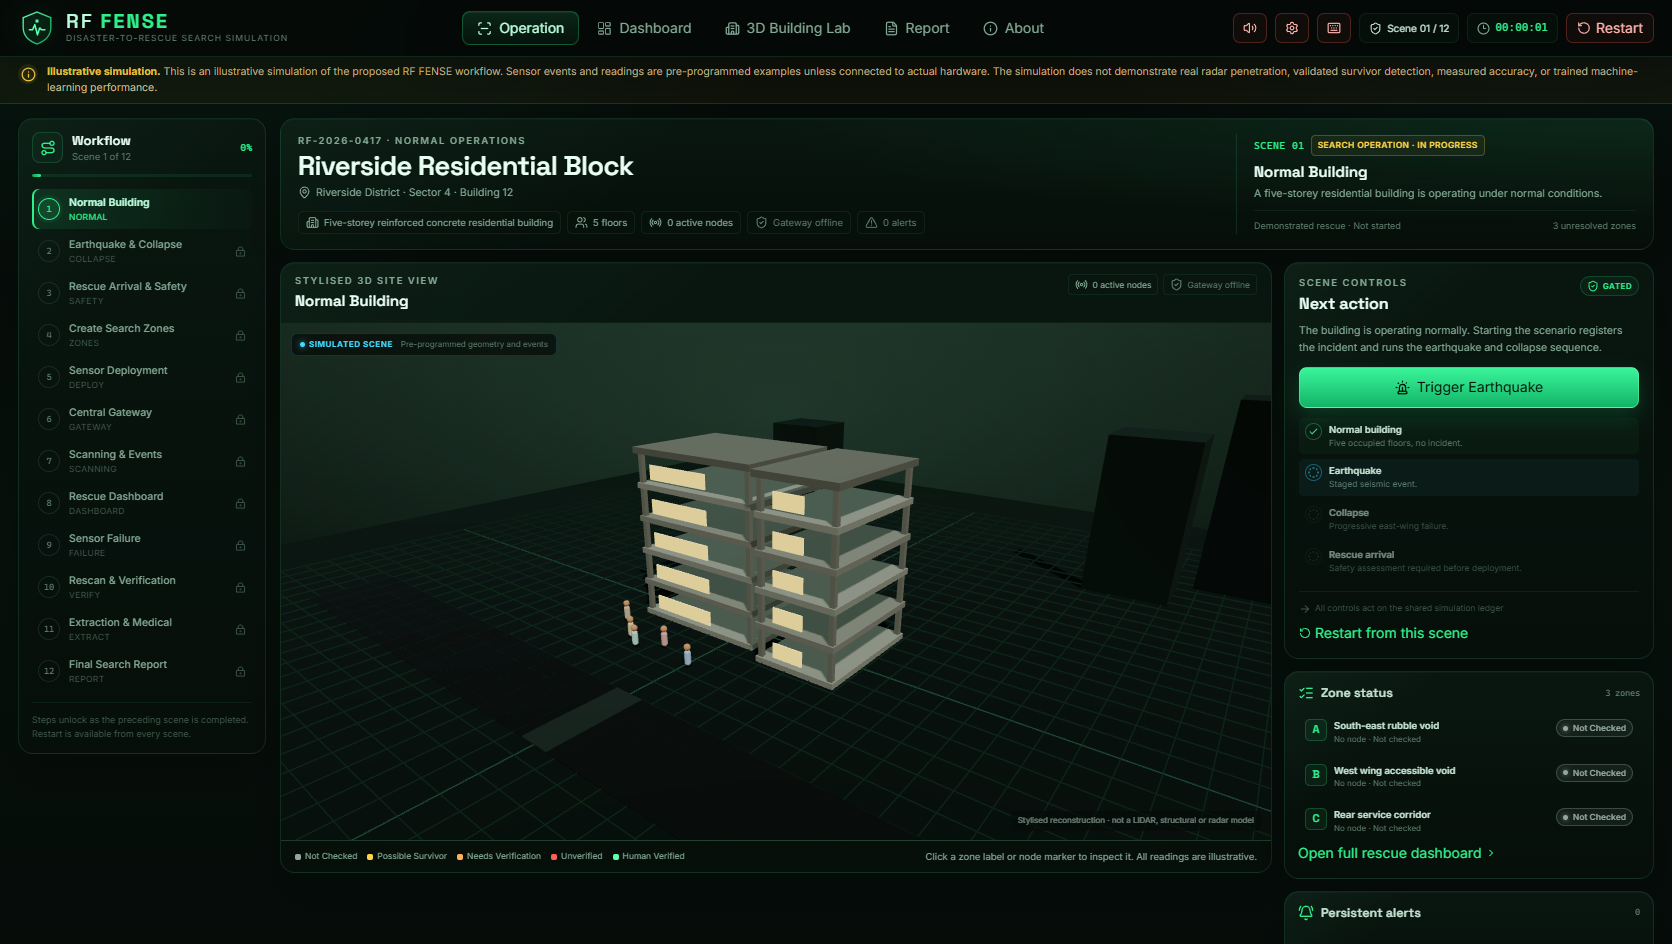
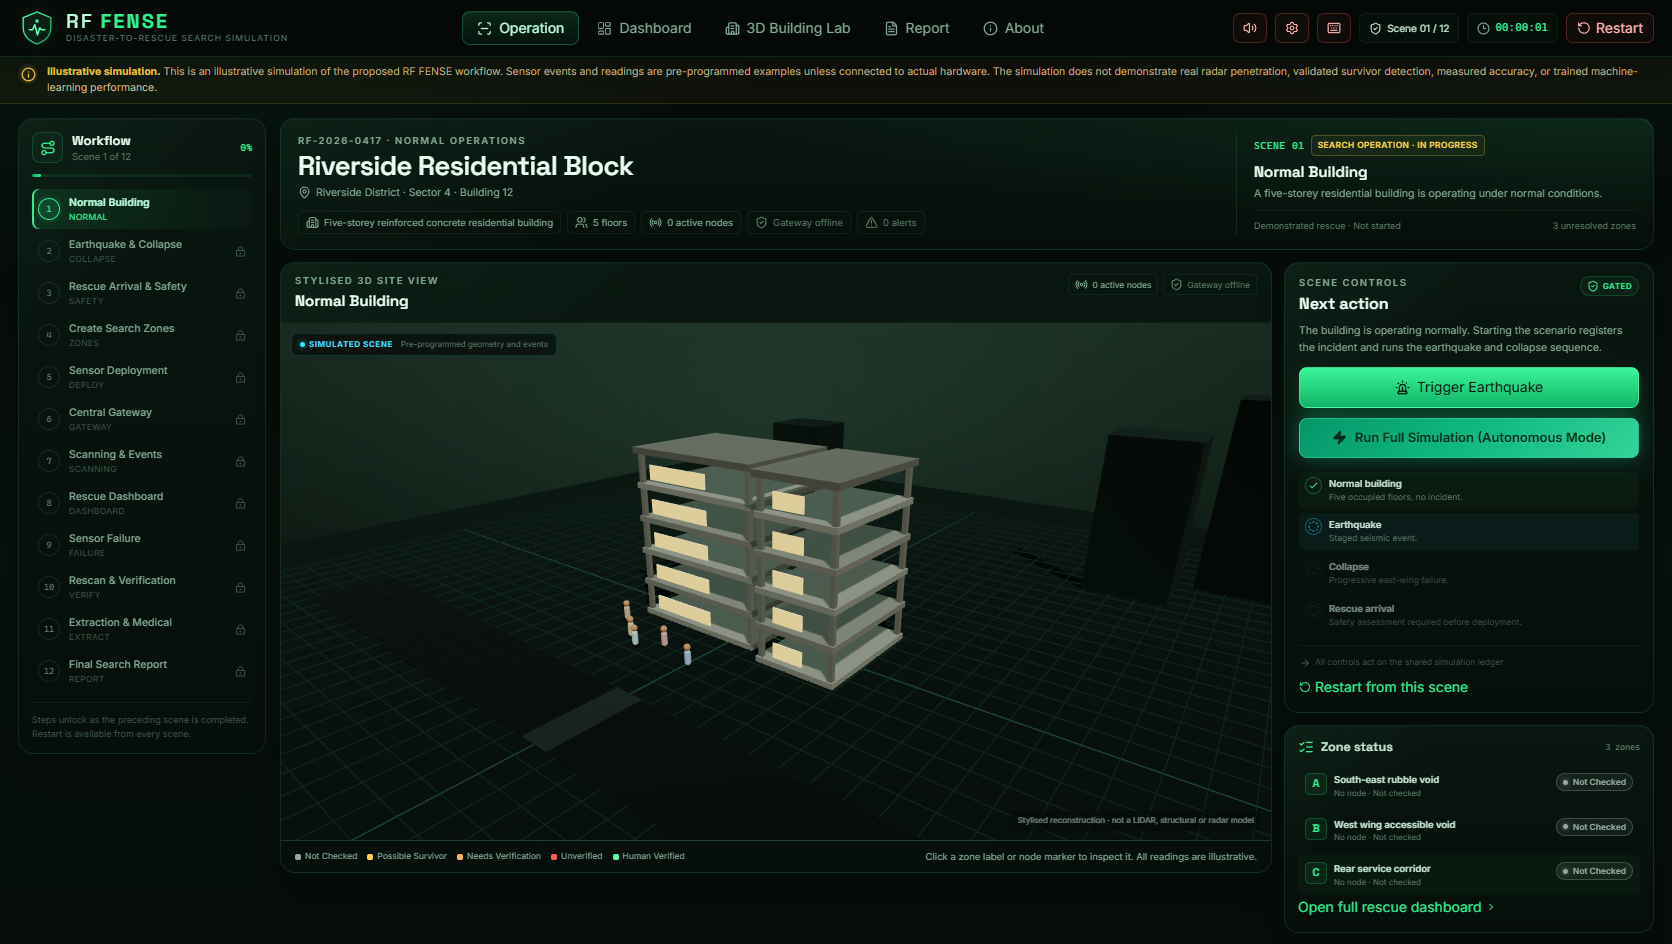
feat: remove workflow sidebar from 3D Building Lab for full-width layout and add one-click autonomous E2E run button

Changed region(s): [[0.7775, 0.4301, 0.9952, 0.9831], [0.933, 0.768, 0.9952, 0.9523]]

diff --git a/src/rf/RfFenseContext.tsx b/src/rf/RfFenseContext.tsx
@@ -77,6 +77,9 @@ interface RfFenseContextValue {
   completeExtraction: () => void
   generateReport: () => void
   restartSimulation: () => void
+  isAutoRunning: boolean
+  runAutonomousSimulation: () => void
+  stopAutonomousSimulation: () => void
   now: () => number
 }
 
@@ -100,6 +103,10 @@ export function RfFenseProvider({ children }: { children: ReactNode }) {
   const generationRef = useRef(0)
   const toastIdRef = useRef(0)
 
+  const [isAutoRunning, setIsAutoRunning] = useState(false)
+  const autoRunningRef = useRef(false)
+  const autoRunTimersRef = useRef<number[]>([])
+
   const scene = deriveScene(state)
   const phase = derivePhase(state)
   const report = useMemo(() => getReport(state), [state])
@@ -116,6 +123,9 @@ export function RfFenseProvider({ children }: { children: ReactNode }) {
       generationRef.current += 1
       timersRef.current.forEach((timer) => window.clearTimeout(timer))
       timersRef.current.clear()
+      autoRunningRef.current = false
+      autoRunTimersRef.current.forEach((timer) => window.clearTimeout(timer))
+      autoRunTimersRef.current = []
     }
   }, [])
 
@@ -383,6 +393,10 @@ export function RfFenseProvider({ children }: { children: ReactNode }) {
 
   const restartSimulation = useCallback(() => {
     tacticalAudio.playClick()
+    autoRunningRef.current = false
+    setIsAutoRunning(false)
+    autoRunTimersRef.current.forEach((t) => window.clearTimeout(t))
+    autoRunTimersRef.current = []
     generationRef.current += 1
     timersRef.current.forEach((timer) => window.clearTimeout(timer))
     timersRef.current.clear()
@@ -397,6 +411,113 @@ export function RfFenseProvider({ children }: { children: ReactNode }) {
     dispatch({ type: 'RESTART', now: now() })
     pushToast('Simulation restarted', 'Scene 1 · Normal Building. All previous events and readings have been cleared.', 'info')
   }, [now, pushToast])
+
+  const stopAutonomousSimulation = useCallback(() => {
+    autoRunningRef.current = false
+    setIsAutoRunning(false)
+    autoRunTimersRef.current.forEach((t) => window.clearTimeout(t))
+    autoRunTimersRef.current = []
+    pushToast('Autonomous run stopped', 'Manual control restored. You can continue from the current scene.', 'info')
+  }, [pushToast])
+
+  const runAutonomousSimulation = useCallback(() => {
+    if (lockRef.current) return
+    autoRunTimersRef.current.forEach((t) => window.clearTimeout(t))
+    autoRunTimersRef.current = []
+
+    autoRunningRef.current = true
+    setIsAutoRunning(true)
+    pushToast('Autonomous Mode Activated', 'Running end-to-end disaster-to-rescue simulation across all 12 scenes...', 'success')
+
+    const scheduleStep = (fn: () => void, delay: number) => {
+      const t = window.setTimeout(() => {
+        if (!autoRunningRef.current) return
+        fn()
+      }, delay)
+      autoRunTimersRef.current.push(t)
+    }
+
+    // Step 1: Earthquake
+    triggerEarthquake()
+
+    // Step 2: Safety Assessment (~4800ms)
+    scheduleStep(() => {
+      runSafetyAssessment()
+    }, 4800)
+
+    // Step 3: Mark Safe Areas (~7200ms)
+    scheduleStep(() => {
+      markSafeAreas()
+    }, 7200)
+
+    // Step 4: Confirm Search Zones (~8700ms)
+    scheduleStep(() => {
+      confirmZones()
+    }, 8700)
+
+    // Step 5: Deploy Sensor Nodes (~10000ms)
+    scheduleStep(() => {
+      deploySensors()
+    }, 10000)
+
+    // Step 6: Connect Central Gateway (~12100ms)
+    scheduleStep(() => {
+      connectGateway()
+    }, 12100)
+
+    // Step 7: Start Initial Scan (~14300ms)
+    scheduleStep(() => {
+      startScan()
+    }, 14300)
+
+    // Step 8: Simulate Sensor Failure (~19500ms)
+    scheduleStep(() => {
+      simulateSensorFailure()
+    }, 19500)
+
+    // Step 9: Reassess Coverage Options (~21200ms)
+    scheduleStep(() => {
+      reassessCoverage()
+    }, 21200)
+
+    // Step 10: Rescan Zone A (~23100ms)
+    scheduleStep(() => {
+      rescanZone('A')
+    }, 23100)
+
+    // Step 11: Human Verification with explicit commander signature (~25200ms)
+    scheduleStep(() => {
+      confirmVerification('Visual and Acoustic Search Team', 'Captain M. Okafor (Rescue Commander)')
+    }, 25200)
+
+    // Step 12: Complete Extraction & Medical Handover (~27200ms)
+    scheduleStep(() => {
+      completeExtraction()
+    }, 27200)
+
+    // Step 13: Generate Final Search Report (~29500ms)
+    scheduleStep(() => {
+      generateReport()
+      autoRunningRef.current = false
+      setIsAutoRunning(false)
+      pushToast('Autonomous Simulation Complete', 'All 12 disaster-to-rescue scenes successfully executed. Final report generated.', 'success')
+    }, 29500)
+  }, [
+    triggerEarthquake,
+    runSafetyAssessment,
+    markSafeAreas,
+    confirmZones,
+    deploySensors,
+    connectGateway,
+    startScan,
+    simulateSensorFailure,
+    reassessCoverage,
+    rescanZone,
+    confirmVerification,
+    completeExtraction,
+    generateReport,
+    pushToast,
+  ])
 
   const selectZone = useCallback((zoneId: ZoneId | null) => {
     setSelectedZone(zoneId)
@@ -446,6 +567,9 @@ export function RfFenseProvider({ children }: { children: ReactNode }) {
       completeExtraction,
       generateReport,
       restartSimulation,
+      isAutoRunning,
+      runAutonomousSimulation,
+      stopAutonomousSimulation,
       now,
     }),
     [
@@ -483,6 +607,9 @@ export function RfFenseProvider({ children }: { children: ReactNode }) {
       completeExtraction,
       generateReport,
       restartSimulation,
+      isAutoRunning,
+      runAutonomousSimulation,
+      stopAutonomousSimulation,
       now,
     ],
   )

diff --git a/src/rf/components/ActionPanel.tsx b/src/rf/components/ActionPanel.tsx
@@ -17,6 +17,7 @@ import {
   Siren,
   Stethoscope,
   Wrench,
+  Zap,
 } from 'lucide-react'
 import type { ReactNode } from 'react'
 import { useRfFense } from '../RfFenseContext'
@@ -126,6 +127,9 @@ export function ActionPanel() {
     generateReport,
     setTab,
     restartSimulation,
+    isAutoRunning,
+    runAutonomousSimulation,
+    stopAutonomousSimulation,
   } = useRfFense()
 
   const busyReason = busy ? `${busy.label}. Please wait for this step to finish.` : undefined
@@ -158,10 +162,43 @@ export function ActionPanel() {
         </span>
       </div>
 
-      {busy && (
+      {busy && !isAutoRunning && (
         <div className="rf-actions__busy" role="status" aria-live="polite">
           <LoaderCircle size={14} className="rf-spin" aria-hidden="true" />
           <span>{busy.label}</span>
+        </div>
+      )}
+
+      {isAutoRunning && (
+        <div
+          style={{
+            padding: '10px 14px',
+            marginBottom: '14px',
+            borderRadius: '8px',
+            background: 'rgba(16, 185, 129, 0.14)',
+            border: '1px solid rgba(52, 211, 153, 0.5)',
+            display: 'flex',
+            alignItems: 'center',
+            justifyContent: 'space-between',
+            gap: '10px',
+          }}
+          role="status"
+          aria-live="polite"
+        >
+          <div style={{ display: 'flex', alignItems: 'center', gap: '8px' }}>
+            <LoaderCircle size={15} className="rf-spin" style={{ color: '#34d399', flexShrink: 0 }} />
+            <span style={{ fontSize: '12px', fontWeight: 600, color: '#ecfdf5' }}>
+              Autonomous Simulation in progress · Scene {scene} / 12
+            </span>
+          </div>
+          <button
+            type="button"
+            className="secondary-button"
+            onClick={stopAutonomousSimulation}
+            style={{ padding: '4px 9px', fontSize: '11px', fontWeight: 600, whiteSpace: 'nowrap' }}
+          >
+            Stop Auto-Run
+          </button>
         </div>
       )}
 
@@ -176,10 +213,39 @@ export function ActionPanel() {
             label="Trigger Earthquake"
             icon={<Siren size={15} />}
             onClick={triggerEarthquake}
-            disabled={Boolean(busy)}
+            disabled={Boolean(busy) || isAutoRunning}
             reason={busyReason}
             primary
           />
+          <div style={{ marginTop: '10px', marginBottom: '14px' }}>
+            <button
+              type="button"
+              className="primary-button"
+              data-control="run-autonomous-simulation"
+              onClick={runAutonomousSimulation}
+              disabled={Boolean(busy) || isAutoRunning}
+              title="One-click automated walkthrough of all 12 disaster-to-rescue scenes from earthquake to final report"
+              style={{
+                width: '100%',
+                padding: '11px 16px',
+                fontSize: '13px',
+                fontWeight: 600,
+                background: 'linear-gradient(135deg, #059669 0%, #10b981 50%, #34d399 100%)',
+                color: '#022c17',
+                border: '1px solid rgba(52, 211, 153, 0.6)',
+                borderRadius: '8px',
+                boxShadow: '0 0 20px rgba(16, 185, 129, 0.45)',
+                display: 'flex',
+                alignItems: 'center',
+                justifyContent: 'center',
+                gap: '8px',
+                cursor: 'pointer',
+              }}
+            >
+              <Zap size={15} fill="#022c17" />
+              <span>Run Full Simulation (Autonomous Mode)</span>
+            </button>
+          </div>
           <StepList
             steps={[
               { label: 'Normal building', detail: 'Five occupied floors, no incident.', done: true },

diff --git a/src/rf/RfApp.tsx b/src/rf/RfApp.tsx
@@ -49,19 +49,19 @@ export function RfApp() {
       />
       <DisclaimerBanner />
 
-      <div className="rf-shell">
-        <WorkflowRail />
-        <main id="rf-main" className="rf-main">
-          <MissionBanner />
+      <div className={`rf-shell${tab === 'building_lab' ? ' no-rail' : ''}`}>
+        {tab !== 'building_lab' && <WorkflowRail />}
+        <main id="rf-main" className={`rf-main${tab === 'building_lab' ? ' rf-main--full' : ''}`}>
+          {tab !== 'building_lab' && <MissionBanner />}
           <p className="rf-sr-only" role="status" aria-live="polite">
             Scene {scene} of 12: {meta.label}. {meta.objective}
           </p>
           {tab === 'operation' && <OperationView />}
           {tab === 'dashboard' && <DashboardView />}
           {tab === 'building_lab' && (
-            <div style={{ padding: '8px 12px' }}>
+            <div style={{ width: '100%' }}>
               <SimulationProvider>
-                <SimulationDashboard />
+                <SimulationDashboard showSidebar={false} />
               </SimulationProvider>
             </div>
           )}

diff --git a/src/components/SimulationDashboard.tsx b/src/components/SimulationDashboard.tsx
@@ -7,11 +7,15 @@ import { DetectionResults } from './DetectionResults'
 import { EstimatedLocation } from './EstimatedLocation'
 import { MissionStatus } from './MissionStatus'
 
-export function SimulationDashboard() {
+interface SimulationDashboardProps {
+  showSidebar?: boolean
+}
+
+export function SimulationDashboard({ showSidebar = false }: SimulationDashboardProps) {
   return (
-    <main id="main-content" className="app-main">
-      <div className="dashboard-grid">
-        <WorkflowSidebar />
+    <main id="main-content" className="app-main" style={{ padding: '0 4px 18px' }}>
+      <div className={`dashboard-grid${showSidebar ? '' : ' no-sidebar'}`}>
+        {showSidebar && <WorkflowSidebar />}
 
         <div className="center-column">
           <MissionHeader />

diff --git a/src/styles/rf.css b/src/styles/rf.css
@@ -295,11 +295,19 @@
   padding: 14px 18px 20px;
 }
 
+.rf-shell.no-rail {
+  grid-template-columns: minmax(0, 1fr);
+}
+
 .rf-main {
   display: flex;
   min-width: 0;
   flex-direction: column;
   gap: 12px;
+}
+
+.rf-main--full {
+  width: 100%;
 }
 
 /* ============================================================

diff --git a/src/styles/layout.css b/src/styles/layout.css
@@ -14,6 +14,10 @@
   align-items: start;
 }
 
+.dashboard-grid.no-sidebar {
+  grid-template-columns: minmax(0, 1fr) 352px;
+}
+
 .center-column {
   display: flex;
   min-width: 0;
